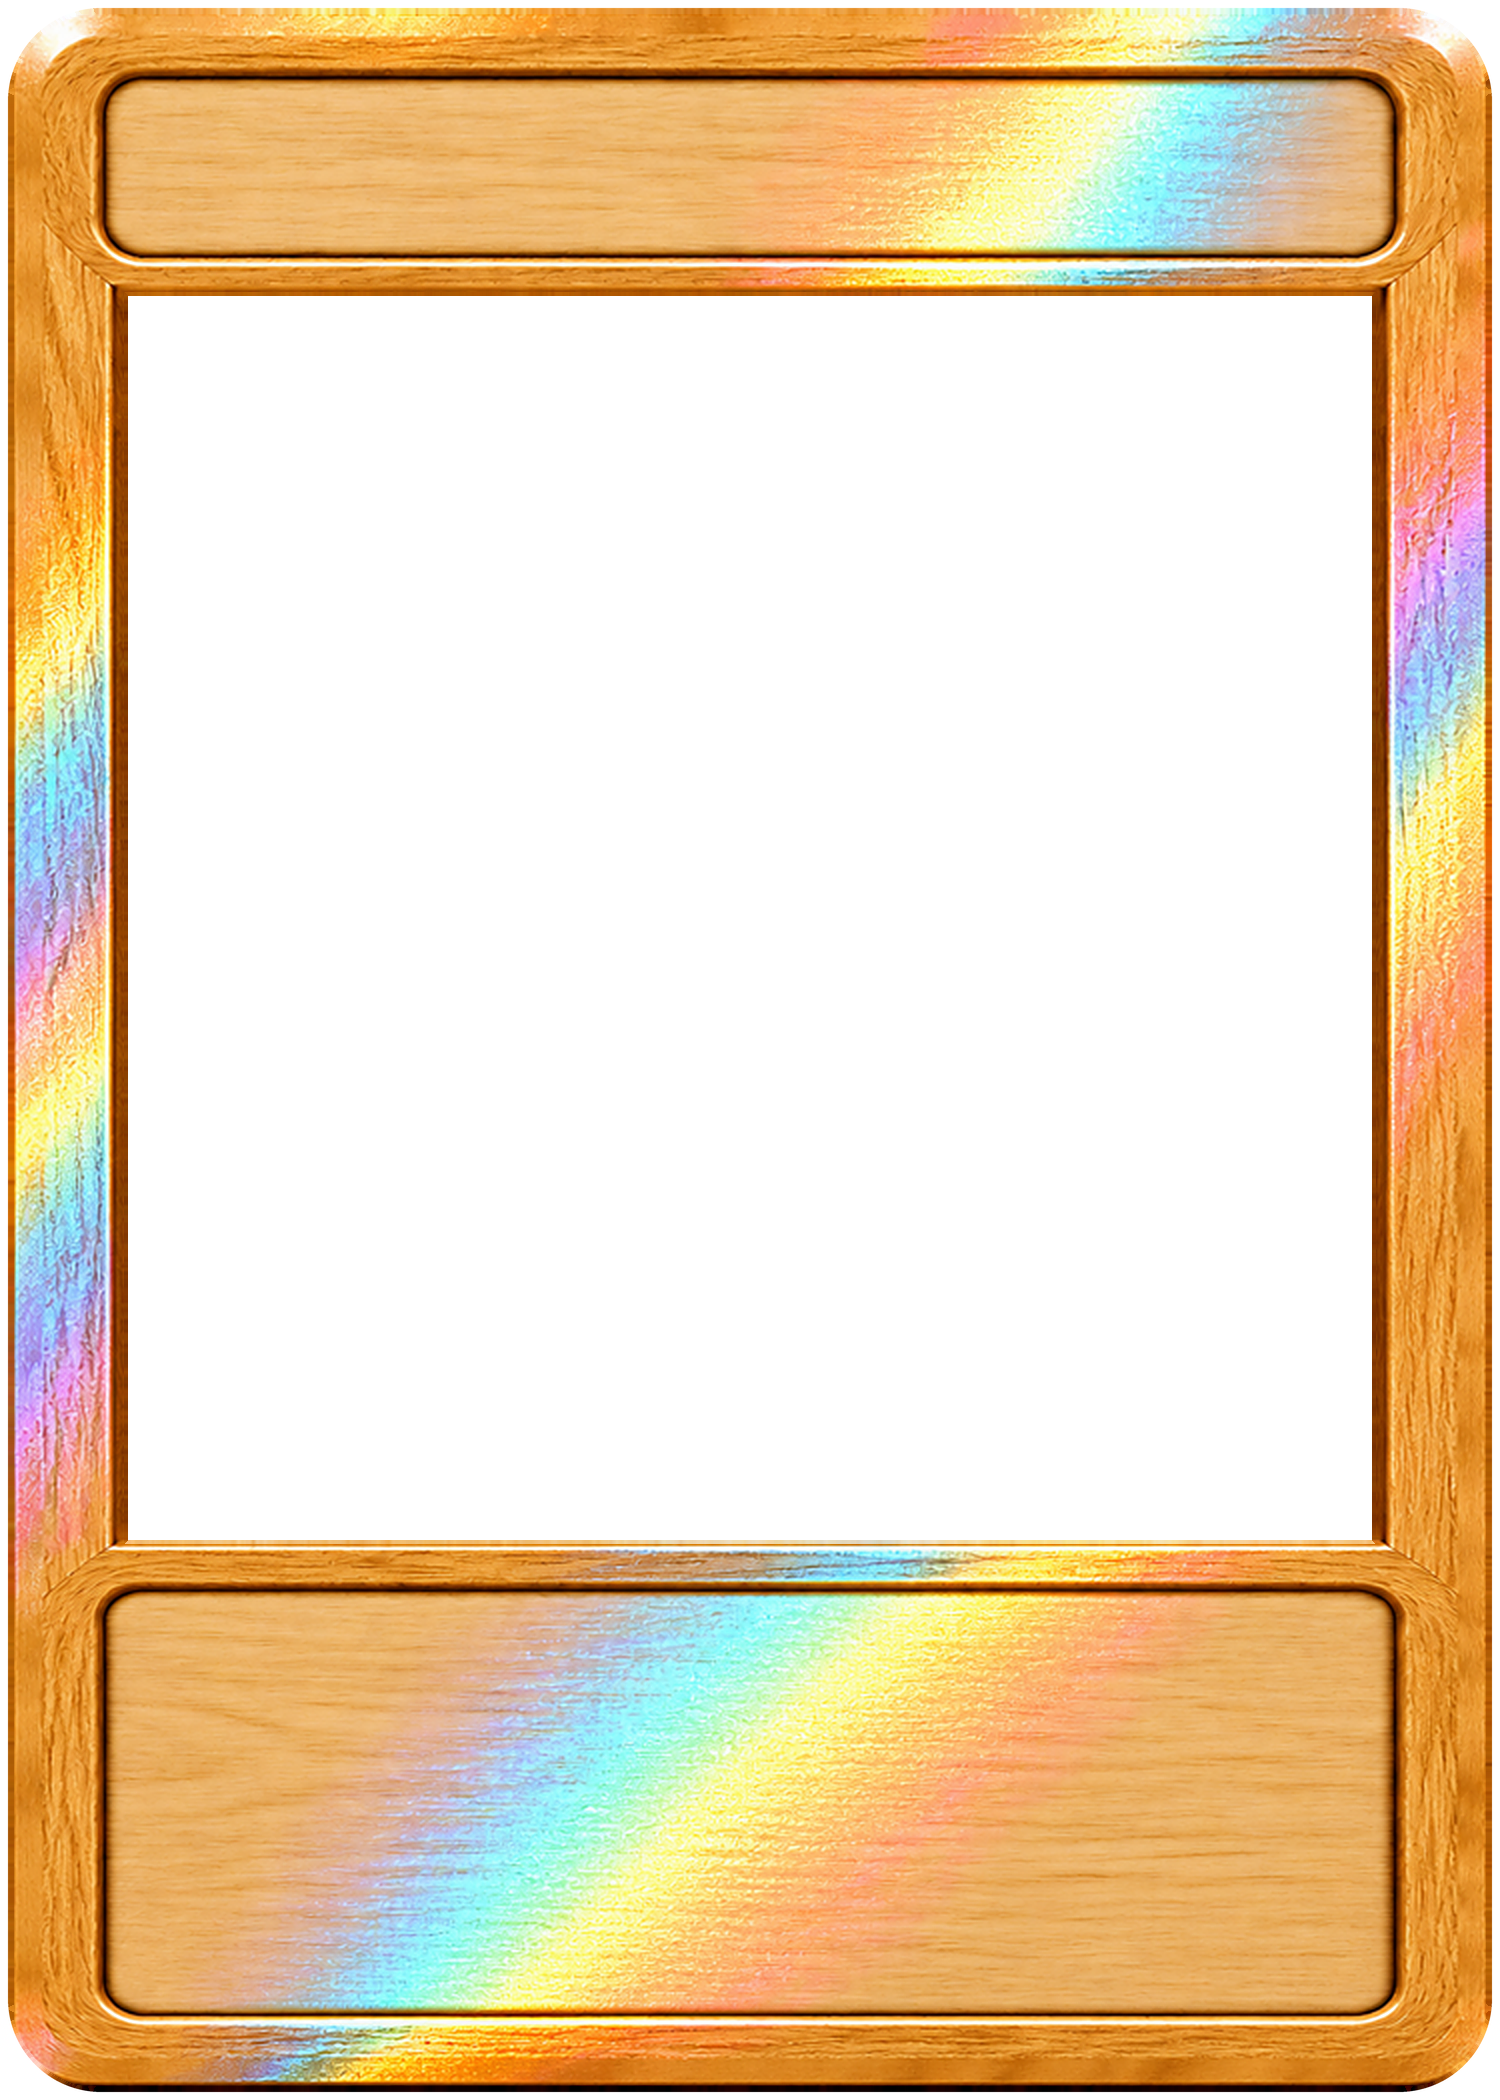
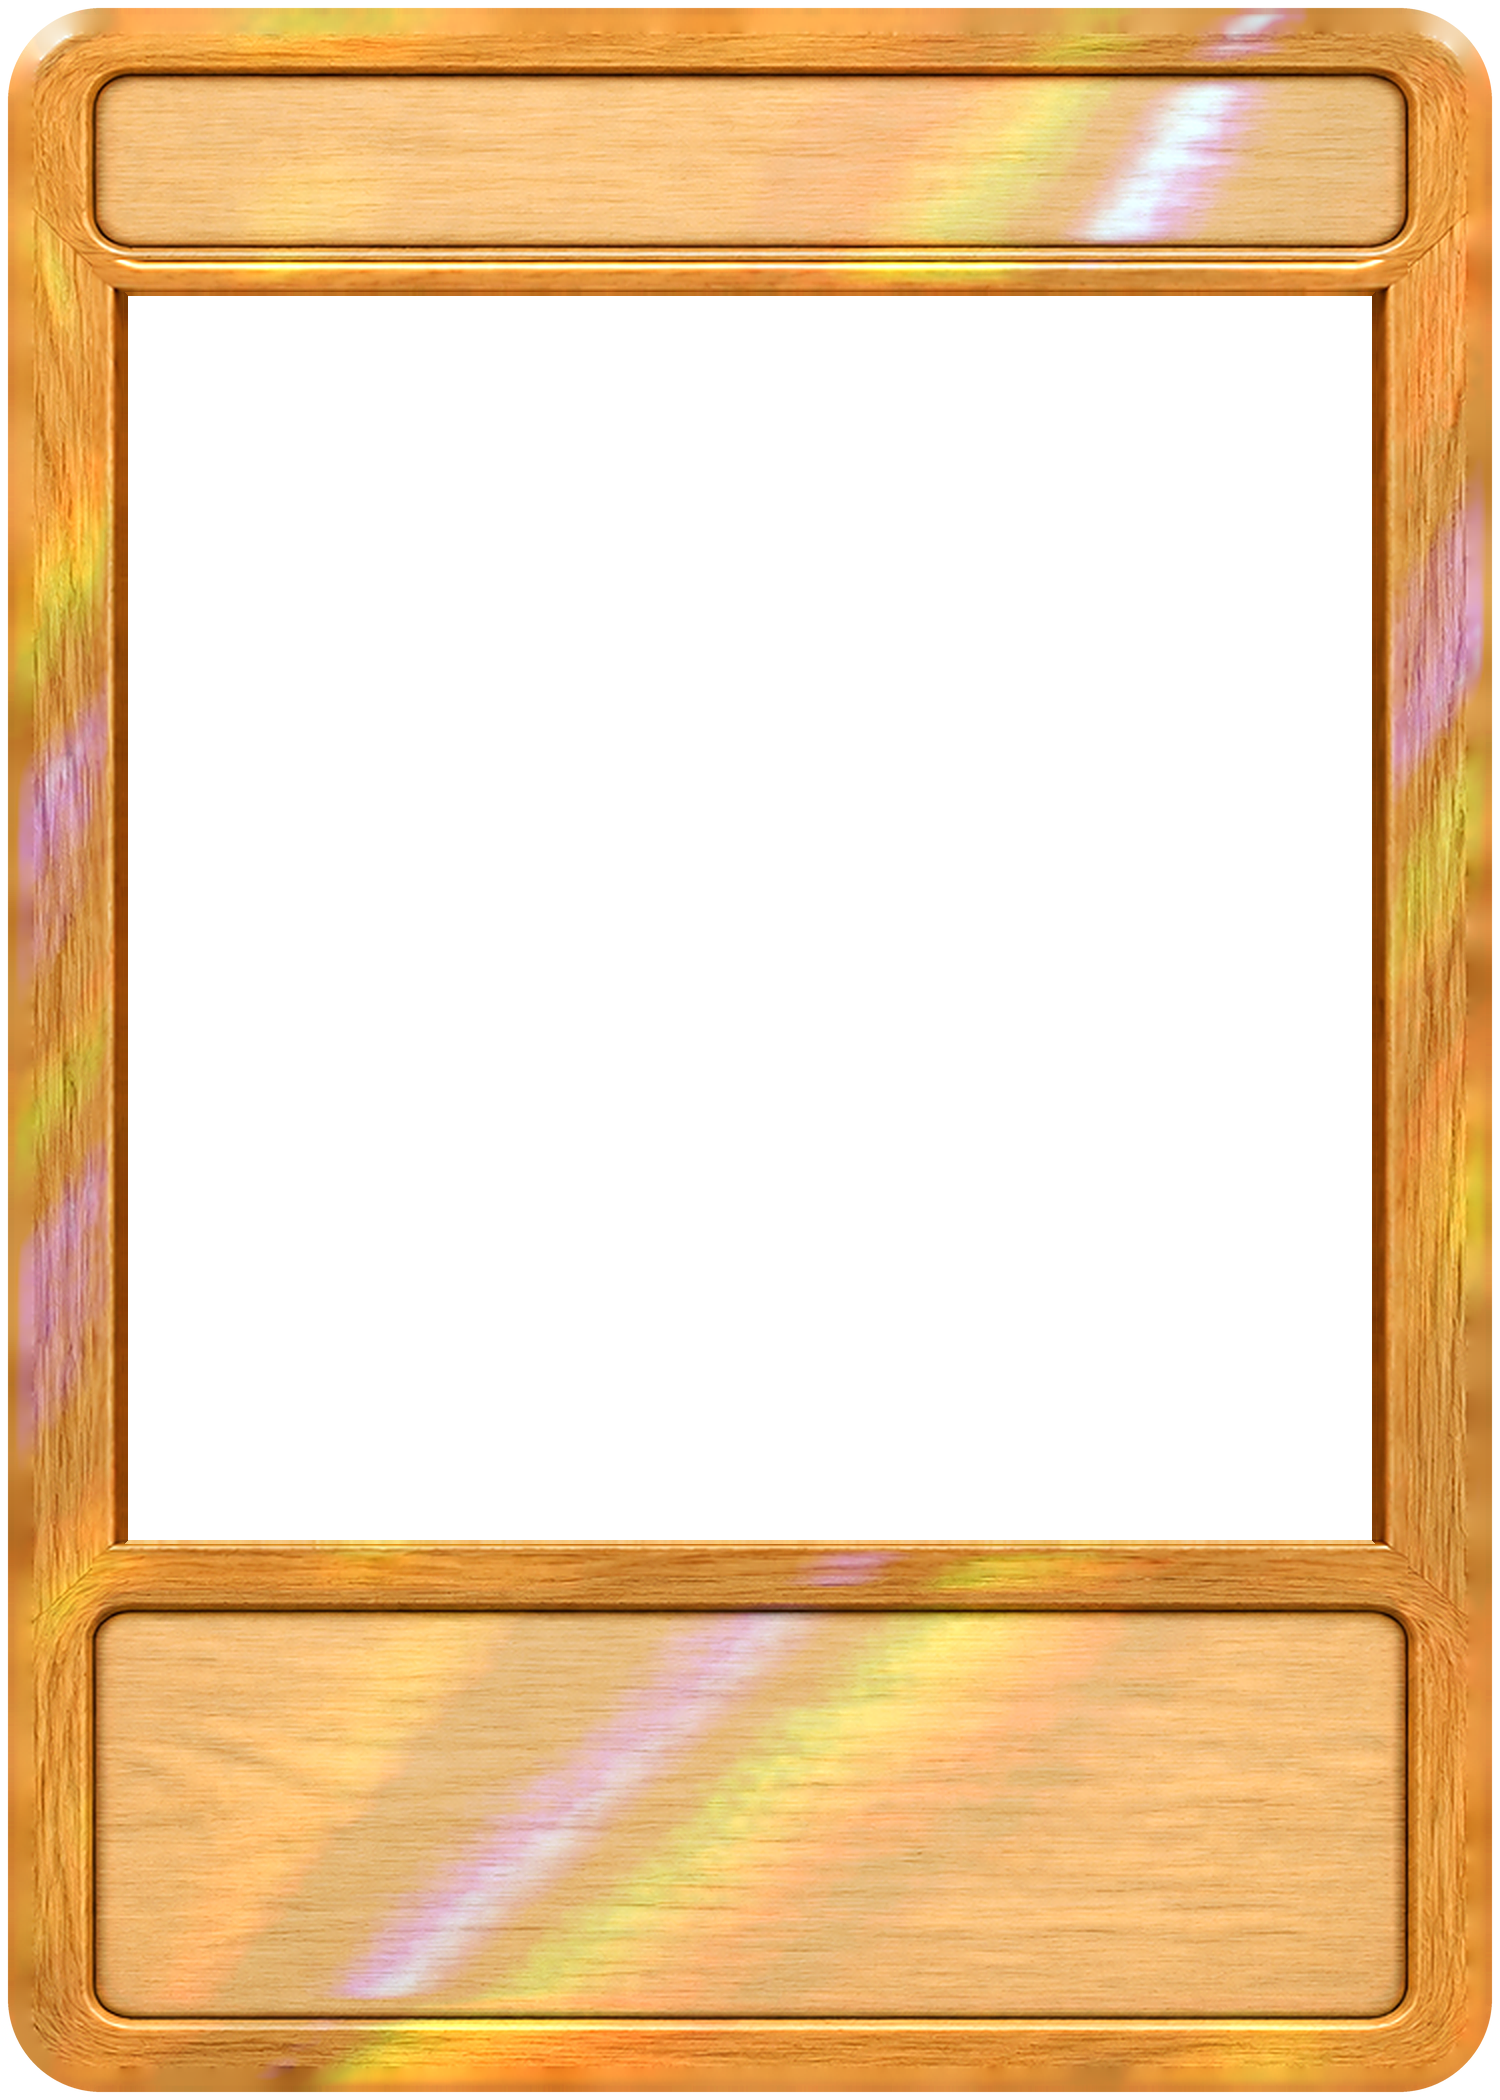
Frames: Wood holo remade on Wood (panels line up exactly)
Claude-Session: https://claude.ai/code/session_01LEzX9WUx8sWcSwwRyLeaEz

diff --git a/studio/src/frames.ts b/studio/src/frames.ts
@@ -89,7 +89,7 @@ export const BUILTIN_FRAMES: Record<string, Partial<Record<Variant, string>>> = 
 
 /** Bump (to a time in the past, e.g. when the change is made) when a frame file is added or changed: approvals made
  *  before this go stale and must be redone. */
-export const FRAMES_UPDATED_AT = Date.UTC(2026, 9, 12, 20, 0)
+export const FRAMES_UPDATED_AT = Date.UTC(2026, 9, 12, 21, 0)
 
 /** From the templates' layout.json (750 x 1050), doubled to 1500 x 2100. Identical on every frame. */
 export const FRAME_GEOMETRY = {
